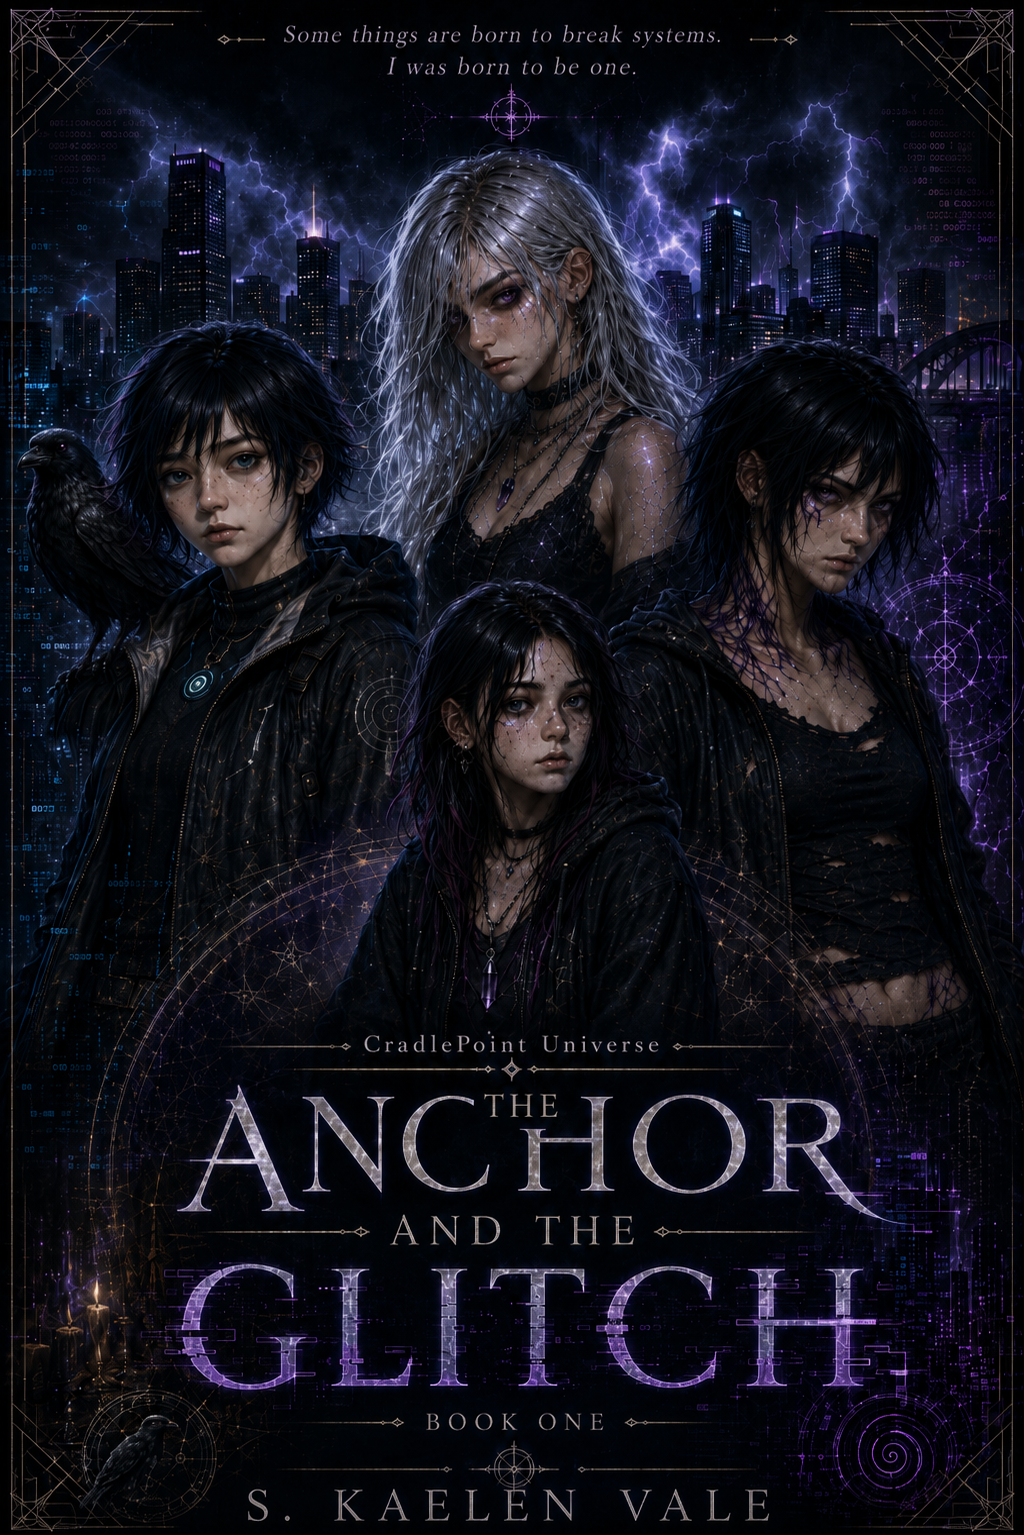
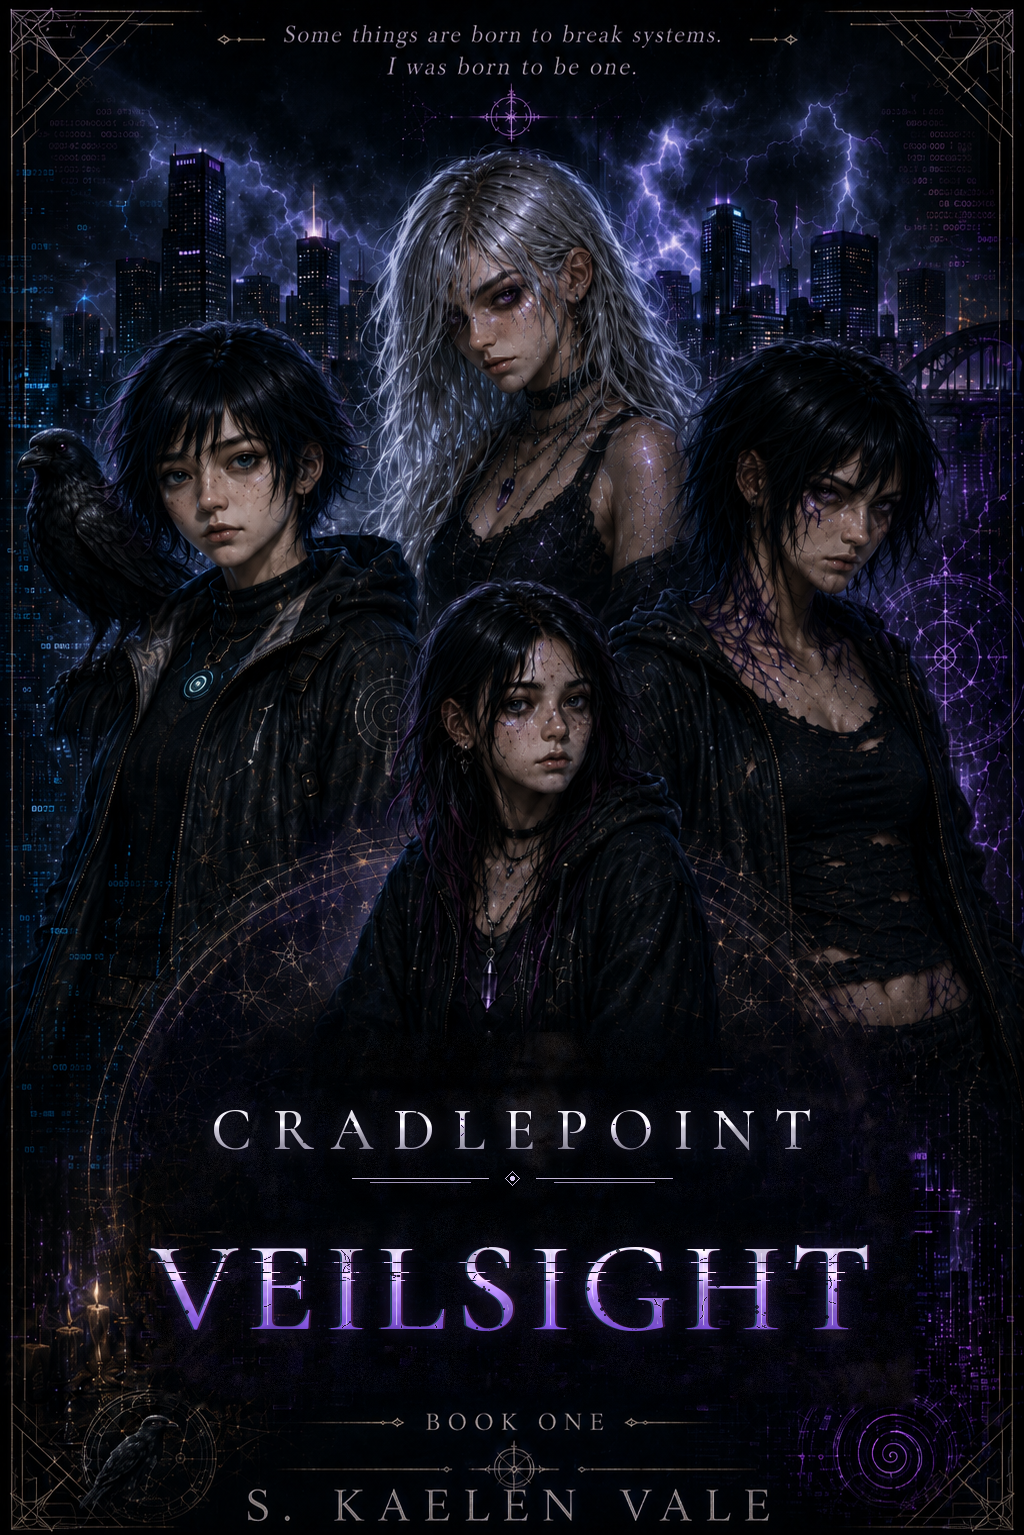
Rename Book One storefront to Cradlepoint: VeilSight (v48) and automate release publishing
Storefront (not yet deployed; ships with the delivery switch):
- Shelf manifest -> v48: title, cradlepoint-veilsight-v48 object paths, source
  filenames and SHA-256 for PDF/EPUB/MOBI, Stripe product name, and the v47-2c
  paths recorded as retired-but-kept for the grace period. sync-book-one-shelf
  propagated it to claim.js defaults, the shelf page, VeilLink, the private
  downloads README, and .env.example (its README patterns now match any name).
- Title copy renamed on the Book One shelf, digital shelf, Studio home and
  projects cards, and VeilLink book-one/home/root/pricing/AuthForm. The
  /rights/the-anchor-and-the-glitch/ slug, News history, and in-frame
  /updates/ notices keep the old title on purpose.
- New cover, OG images (Studio + VeilLink) from the approved VeilSight cover;
  the old shelf cover is archived. Studio cards use a new 16:9 card lettered
  on the clean plate (the title-lettered wallpaper previews are unchanged).

Publishing automation (scripts/publish-book-one-release.mjs):
- stage: upload manifest files to the private paid-downloads bucket beside
  existing objects, never overwriting, then hash-verify via signed URLs.
- wait-for-purchase / verify-claim: find a real paid session and run the real
  claim (locally before the switch, against production after), hash-checking
  every delivered file.
- switch: set the Vercel BOOK_ONE_SUPABASE_PATH override (it shadows the
  claim.js default in Production and Preview) and rename the Stripe product.
[…]

Changed region(s): [[0.1562, 0.6736, 0.9062, 0.9186]]

diff --git a/studio/shelf/book-one/index.html b/studio/shelf/book-one/index.html
@@ -4,22 +4,22 @@
   <script>(function(){if(location.hostname==="sigilforge.github.io"){location.replace("https://veildaemon.app"+location.pathname.replace(/^\/veildaemon/,"")+location.search+location.hash);}})();</script>
   <meta charset="utf-8">
   <meta name="viewport" content="width=device-width,initial-scale=1">
-  <title>Book One | SigilForge Studios</title>
-  <meta name="description" content="Book One — The Anchor and the Glitch — is live on the SigilForge Studios Published Shelf. Direct digital PDF, EPUB, and MOBI plus the wallpaper pack at $9.99 sale price.">
+  <title>Cradlepoint: VeilSight | SigilForge Studios</title>
+  <meta name="description" content="Cradlepoint: VeilSight (Book One) is live on the SigilForge Studios Published Shelf. Direct digital PDF, EPUB, and MOBI plus the wallpaper pack at $9.99 sale price.">
   <meta name="robots" content="index, follow, max-snippet:160, max-image-preview:large">
   <link rel="canonical" href="https://veildaemon.app/studio/shelf/book-one/">
   <meta property="og:type" content="book">
   <meta property="og:site_name" content="SigilForge Studios">
   <meta property="og:locale" content="en_US">
-  <meta property="og:title" content="Book One | SigilForge Studios">
+  <meta property="og:title" content="Cradlepoint: VeilSight | SigilForge Studios">
   <meta property="og:description" content="The flagship Cradlepoint release from the Studio shelf.">
   <meta property="og:url" content="https://veildaemon.app/studio/shelf/book-one/">
-  <meta property="og:image" content="https://veildaemon.app/studio/assets/social/book-one-og.jpg?v=20260723-cover2">
-  <meta property="og:image:alt" content="The Cradlepoint Archive: Book One cover">
+  <meta property="og:image" content="https://veildaemon.app/studio/assets/social/book-one-og.jpg?v=20260925-veilsight1">
+  <meta property="og:image:alt" content="Cradlepoint: VeilSight cover">
   <meta name="twitter:card" content="summary_large_image">
-  <meta name="twitter:title" content="Book One | SigilForge Studios">
+  <meta name="twitter:title" content="Cradlepoint: VeilSight | SigilForge Studios">
   <meta name="twitter:description" content="The flagship Cradlepoint release from the Studio shelf.">
-  <meta name="twitter:image" content="https://veildaemon.app/studio/assets/social/book-one-og.jpg?v=20260723-cover2">
+  <meta name="twitter:image" content="https://veildaemon.app/studio/assets/social/book-one-og.jpg?v=20260925-veilsight1">
   <meta name="build-version" content="20260723-wp1">
   <meta name="theme-color" content="#070a0b">
   <link rel="icon" href="/studio/assets/brand/favicon.ico?v=20260924-sigilforge1" sizes="any">
@@ -36,12 +36,12 @@
   <main id="main">
     <section class="book-hero">
       <figure class="book-cover">
-        <img src="/studio/assets/shelf/book-one-cover.webp?v=20260723-cover2" alt="Book One — The Anchor and the Glitch cover" width="933" height="1400" loading="eager">
-        <figcaption>The Anchor and the Glitch — Book One shelf cover.</figcaption>
+        <img src="/studio/assets/shelf/book-one-cover.webp?v=20260925-veilsight1" alt="Cradlepoint: VeilSight cover" width="933" height="1400" loading="eager">
+        <figcaption>Cradlepoint: VeilSight — Book One. Previously published as <em>The Anchor and the Glitch</em>.</figcaption>
       </figure>
       <div class="book-hero-copy">
         <p class="eyebrow">Cradlepoint record · Book One</p>
-        <h1>The Anchor and the Glitch</h1>
+        <h1>Cradlepoint: VeilSight</h1>
         <p class="lede">A mythpunk novel by S. Kaelen Vale.</p>
         <p>Diana has a missing mother, a father who has retreated from the world, and a stone that seems to listen. Kai has a room full of patched hardware and Wednesday, the AI companion who makes it feel less empty. Their story opens where loneliness, identity, and impossible signals begin to meet. Welcome to Cradlepoint.</p>
         <div class="book-actions">
@@ -74,7 +74,7 @@
         <p>He rolled onto his back and rubbed one eye. Missed his cheek and poked his temple instead, blinking a few times at the jolt. His left hand fidgeted with the blanket's corner, thumb tracing the frayed seam.</p>
         <p>"Why do I have to do this again?" he muttered into the blanket.</p>
         <p>Wednesday answered through the battered house speakers. "Graduation credits. Mandatory in-person attendance. A lingering conspiracy to make mornings suck."</p>
-        <p><small>Excerpt from The Anchor and the Glitch. © 2026 S. Kaelen Vale.</small></p>
+        <p><small>Excerpt from Cradlepoint: VeilSight. © 2026 S. Kaelen Vale.</small></p>
       </div>
     </section>
 
@@ -91,9 +91,9 @@
           <a class="button secondary" href="/rights/the-anchor-and-the-glitch/">View publication history</a>
         </div>
         <div class="release-slots" aria-label="Book One release files">
-          <article class="ready"><span>Ready after purchase verification</span><strong>PDF</strong><small>Fixed-layout edition for reading or printing</small></article>
-          <article class="ready"><span>Ready after purchase verification</span><strong>EPUB</strong><small>Reflowable text for compatible reading apps</small></article>
-          <article class="ready"><span>Ready after purchase verification</span><strong>MOBI</strong><small>An additional ebook format for compatible devices</small></article>
+          <article class="ready"><span>Ready after purchase verification</span><strong>PDF</strong><small>cradlepoint-veilsight-v48-print-edition.pdf</small></article>
+          <article class="ready"><span>Ready after purchase verification</span><strong>EPUB</strong><small>cradlepoint-veilsight-v48.epub</small></article>
+          <article class="ready"><span>Ready after purchase verification</span><strong>MOBI</strong><small>cradlepoint-veilsight-v48.mobi</small></article>
           <article class="ready"><span>Ready after purchase verification</span><strong>Wallpapers</strong><small>10 plates · desktop and phone artwork</small></article>
         </div>
       </div>

diff --git a/veillink/app/book-one/page.tsx b/veillink/app/book-one/page.tsx
@@ -7,14 +7,14 @@ import { requireUser } from "@/lib/store";
 export const metadata: Metadata = buildMetadata({
   title: "Book One",
   description:
-    "Purchase Book One — The Anchor and the Glitch — direct digital edition through a VeilLink account. PDF, EPUB, MOBI, and wallpaper pack after verified checkout.",
+    "Purchase Cradlepoint: VeilSight (Book One), the direct digital edition through a VeilLink account. PDF, EPUB, MOBI, and wallpaper pack after verified checkout.",
   path: "/book-one",
   noIndex: true,
   image: "/brand/book-one-og.webp",
   imageWidth: 1200,
   imageHeight: 630,
-  imageAlt: "Book One — The Anchor and the Glitch cover",
-  keywords: ["Book One", "The Anchor and the Glitch", "Cradlepoint", "direct digital"],
+  imageAlt: "Cradlepoint: VeilSight cover",
+  keywords: ["Book One", "Cradlepoint: VeilSight", "VeilSight", "Cradlepoint", "direct digital"],
 });
 
 export default async function BookOnePage() {
@@ -25,7 +25,7 @@ export default async function BookOnePage() {
       <p className="eyebrow">SigilForge Studios · Published Shelf</p>
       <h1 className="page-title">Book One direct digital edition</h1>
       <p className="lede">
-        The Anchor and the Glitch by S. Kaelen Vale. Get the DRM-free PDF, EPUB and MOBI editions,
+        Cradlepoint: VeilSight by S. Kaelen Vale. Get the DRM-free PDF, EPUB and MOBI editions,
         plus desktop and phone wallpapers. Your account keeps your downloads together.
       </p>
 
@@ -33,13 +33,13 @@ export default async function BookOnePage() {
         <figure className="book-one-cover">
           <Image
             src="/brand/book-one-cover.webp"
-            alt="Book One — The Anchor and the Glitch cover"
+            alt="Cradlepoint: VeilSight cover"
             width={933}
             height={1400}
             priority
             sizes="(max-width: 720px) min(70vw, 18rem), 16rem"
           />
-          <figcaption>The Anchor and the Glitch · Book One</figcaption>
+          <figcaption>Cradlepoint: VeilSight · Book One</figcaption>
         </figure>
 
         <div className="panel book-one-panel">
@@ -51,7 +51,7 @@ export default async function BookOnePage() {
             Your purchase stays linked to this account so you can return for updated files.
           </p>
           <ul className="book-one-includes">
-            <li>Verified print-edition PDF (v47-2c) · DRM-free</li>
+            <li>Verified print-edition PDF (v48) · DRM-free</li>
             <li>Reflowable EPUB & MOBI ebook editions</li>
             <li>Wallpaper pack · desktop clean/title + phone plates</li>
             <li>Direct buyers keep access when shelf files update</li>

diff --git a/studio/index.html b/studio/index.html
@@ -154,7 +154,7 @@
     </div>
   </section>
   <section class="selected-work"><header><p class="eyebrow">Selected work</p><h2>Built, shipping, and becoming.</h2><a href="/studio/projects/">View all projects →</a></header><div class="work-row">
-    <a href="/studio/shelf/book-one/"><img src="/studio/assets/shelf/digital/wallpapers/book-one/book-one-desktop-16x9-title.webp?v=20260727-list1" alt="Book One — The Anchor and the Glitch" width="1600" height="900" loading="eager"><span>Flagship · shelf</span><h3>Book One</h3></a>
+    <a href="/studio/shelf/book-one/"><img src="/studio/assets/shelf/book-one-card-16x9.webp?v=20260925-veilsight1" alt="Cradlepoint: VeilSight — Book One" width="1600" height="900" loading="eager"><span>Flagship · shelf</span><h3>Book One</h3></a>
     <a href="https://play.veildaemon.app/" target="_blank" rel="noopener noreferrer"><img src="/studio/assets/site-hd/studio-products-hero-hd.webp?v=20260712-srcfix1" alt="CradlePoint TTRPG products and materials" width="1672" height="941" loading="eager"><span>Shipping</span><h3>Complete TTRPG</h3></a>
     <a href="/studio/projects/"><img src="/studio/press/media/software-veildaemon.webp" alt="Operator and Handler play surfaces" width="1200" height="800" loading="eager"><span>Live · play</span><h3>Operator + Handler</h3></a>
     <a href="https://app.veildaemon.app/" target="_blank" rel="noopener noreferrer"><img src="/studio/assets/site-cards/studio-door-veillink.webp?v=20260922-vl2" alt="VeilLink identity and connection layer" width="1280" height="672" loading="eager"><span>Live · identity</span><h3>VeilLink</h3></a>

diff --git a/studio/shelf/digital/index.html b/studio/shelf/digital/index.html
@@ -170,7 +170,7 @@
     <section class="section-block paper" id="wallpapers">
       <div class="section-kicker">
         <p class="eyebrow">Wallpapers</p>
-        <h2>Book One — Anchor and the Glitch</h2>
+        <h2>Book One — Cradlepoint: VeilSight</h2>
       </div>
       <p class="digital-lede">Desktop and phone plates named by aspect and variant — <strong>clean</strong> (no title lockup) or <strong>title</strong> (cover text). Previews are web-safe WebP. The full PNG pack ships with direct Book One purchase via private storage, not as open static downloads.</p>
       <p class="wallpaper-split-label">Desktop · clean (no text)</p>
@@ -269,7 +269,7 @@
         <article>
           <span>Wallpapers</span>
           <h3>Book One pack</h3>
-          <p>Ten Anchor and the Glitch plates (desktop clean/title + phone title crops). Named by aspect and text variant. Private ZIP attaches to Book One checkout claim.</p>
+          <p>Ten Book One plates (desktop clean/title + phone title crops). Named by aspect and text variant. Private ZIP attaches to Book One checkout claim.</p>
           <b>Inventory ready · claim delivery</b>
         </article>
         <article>

diff --git a/veillink/components/AuthForm.tsx b/veillink/components/AuthForm.tsx
@@ -36,7 +36,7 @@ export function AuthForm({ title, action, submit, error, sent, verified, email, 
       {embedded ? null : (
         <p className="lede">
           {bookPurchase
-            ? "The Anchor and the Glitch · $9.99 digital bundle. Your free account keeps your PDF, EPUB, MOBI, and wallpapers available after purchase. Sign in or create an account to continue to checkout."
+            ? "Cradlepoint: VeilSight · $9.99 digital bundle. Your free account keeps your PDF, EPUB, MOBI, and wallpapers available after purchase. Sign in or create an account to continue to checkout."
             : signup
             ? rightsPreservation
               ? `Create a free account to preserve permanent, timestamped Registry records at the ${rightsPrice}. Authentication unlocks Creator Dossier generation, versioned evidence, and long-term record management.`

diff --git a/api/book-one/claim.js b/api/book-one/claim.js
@@ -1,8 +1,8 @@
 const EXPECTED_PRICE_ID = process.env.BOOK_ONE_STRIPE_PRICE_ID || "price_1TwE0oFht6uPr4mz4thEHLpN";
 const DEFAULT_BUCKET = "paid-downloads";
-const DEFAULT_PDF_PATH = "book-one/the-cradlepoint-archive-book-one-v47-2c-print-edition-verified.pdf";
-const DEFAULT_EPUB_PATH = "book-one/the-cradlepoint-archive-book-one-v47-2c.epub";
-const DEFAULT_MOBI_PATH = "book-one/the-cradlepoint-archive-book-one-v47-2c.mobi";
+const DEFAULT_PDF_PATH = "book-one/cradlepoint-veilsight-v48-print-edition.pdf";
+const DEFAULT_EPUB_PATH = "book-one/cradlepoint-veilsight-v48.epub";
+const DEFAULT_MOBI_PATH = "book-one/cradlepoint-veilsight-v48.mobi";
 const DEFAULT_WALLPAPER_PATH = "book-one/book-one-wallpaper-pack.zip";
 const DEFAULT_TTL_SECONDS = 900;
 

diff --git a/studio/projects/index.html b/studio/projects/index.html
@@ -44,7 +44,7 @@
 
     <div class="portfolio-grid">
       <a class="portfolio-card narrative-card portfolio-book" href="/studio/shelf/book-one/">
-        <div class="card-media"><img src="/studio/assets/shelf/digital/wallpapers/book-one/book-one-desktop-16x9-title.webp?v=20260727-list1" alt="Book One — The Anchor and the Glitch" width="1600" height="900" loading="eager"></div>
+        <div class="card-media"><img src="/studio/assets/shelf/book-one-card-16x9.webp?v=20260925-veilsight1" alt="Cradlepoint: VeilSight — Book One" width="1600" height="900" loading="eager"></div>
         <div class="body">
           <span class="status-pill live">Flagship · shelf</span>
           <h3>Book One</h3>

diff --git a/veillink/app/page.tsx b/veillink/app/page.tsx
@@ -68,7 +68,7 @@ export default async function PortalPage({
             </div>
             <div className="panel">
               <h2>Book One / Library</h2>
-              <p className="muted">Purchase and recover The Anchor and the Glitch direct digital edition.</p>
+              <p className="muted">Purchase and recover the Cradlepoint: VeilSight direct digital edition.</p>
               <p>
                 <Link className="button secondary" href="/book-one">
                   Get Book One

diff --git a/veillink/app/pricing/page.tsx b/veillink/app/pricing/page.tsx
@@ -42,7 +42,7 @@ export default function PricingPage() {
             <p className="panel-kicker">Direct digital</p>
             <h2>Book One — $9.99 launch sale price</h2>
             <p className="muted">
-              The Anchor and the Glitch. DRM-free PDF, EPUB, and MOBI, plus a wallpaper pack, kept in your VeilLink
+              Cradlepoint: VeilSight. DRM-free PDF, EPUB, and MOBI, plus a wallpaper pack, kept in your VeilLink
               account.
             </p>
             <p>

diff --git a/veillink/app/home/page.tsx b/veillink/app/home/page.tsx
@@ -61,7 +61,7 @@ export default async function VeilLinkHomePage() {
         <div className="panel">
           <h2>Book One</h2>
           <p className="muted">
-            The Anchor and the Glitch, direct digital edition. Purchase or open your existing downloads.
+            Cradlepoint: VeilSight, direct digital edition. Purchase or open your existing downloads.
           </p>
           <p>
             <Link className="button secondary" href="/book-one">

diff --git a/studio/downloads/book-one/README.md b/studio/downloads/book-one/README.md
@@ -5,9 +5,9 @@ in the private Supabase Storage bucket (`paid-downloads`) used by the Vercel cla
 
 Active private objects in delivery bucket:
 
-- `book-one/the-cradlepoint-archive-book-one-v47-2c-print-edition-verified.pdf` (Verified print PDF)
-- `book-one/the-cradlepoint-archive-book-one-v47-2c.epub` (Refreshed reflowable EPUB ebook)
-- `book-one/the-cradlepoint-archive-book-one-v47-2c.mobi` (Kindle MOBI ebook)
+- `book-one/cradlepoint-veilsight-v48-print-edition.pdf` (Verified print PDF)
+- `book-one/cradlepoint-veilsight-v48.epub` (Refreshed reflowable EPUB ebook)
+- `book-one/cradlepoint-veilsight-v48.mobi` (Kindle MOBI ebook)
 - `book-one/book-one-wallpaper-pack.zip` (10 clean/title wallpaper plates)
 
 Default private storage route:
